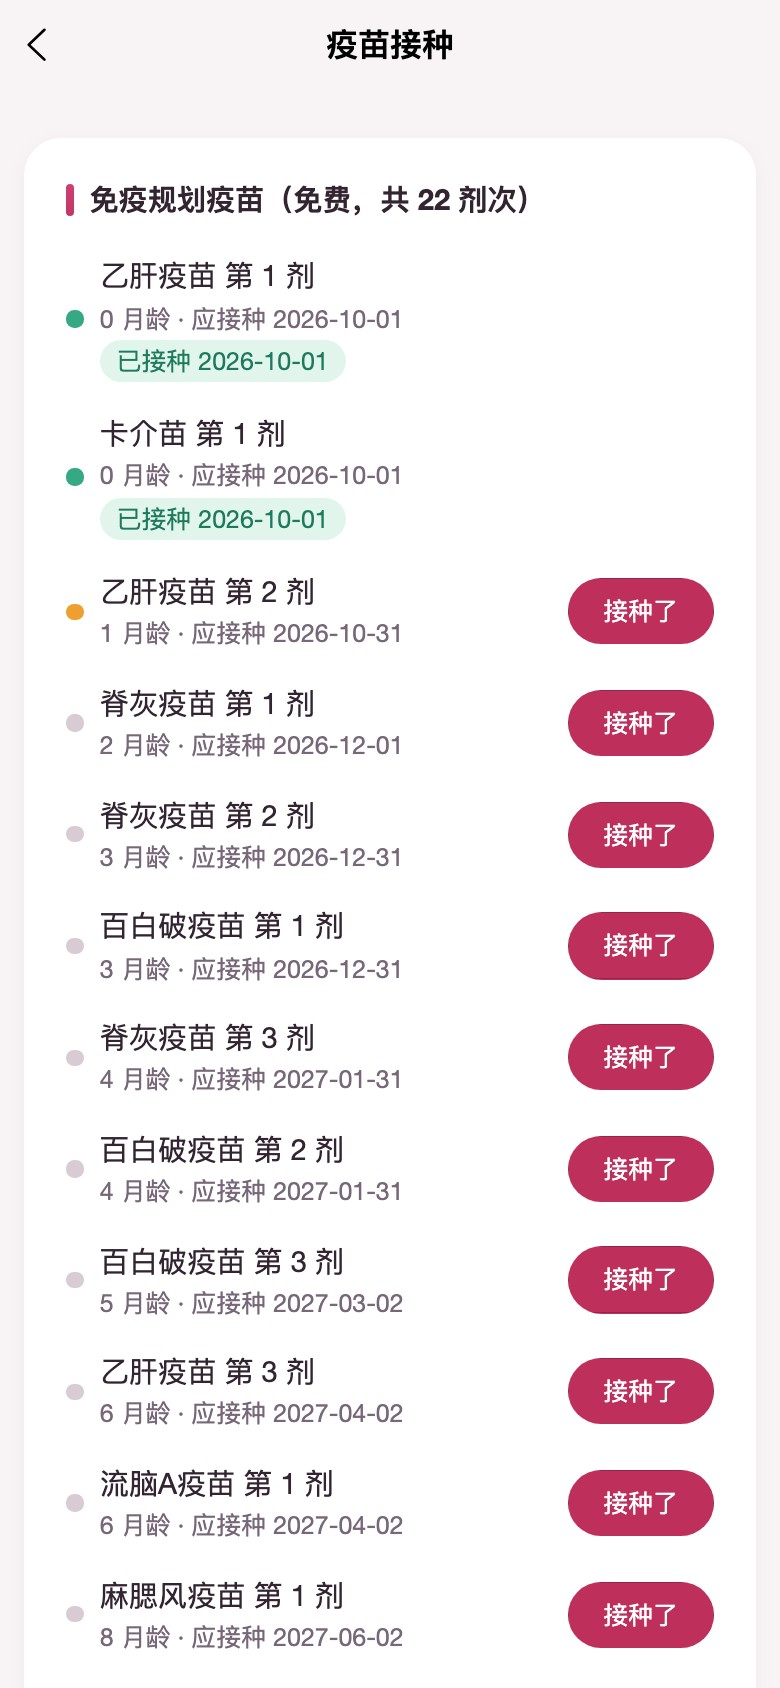
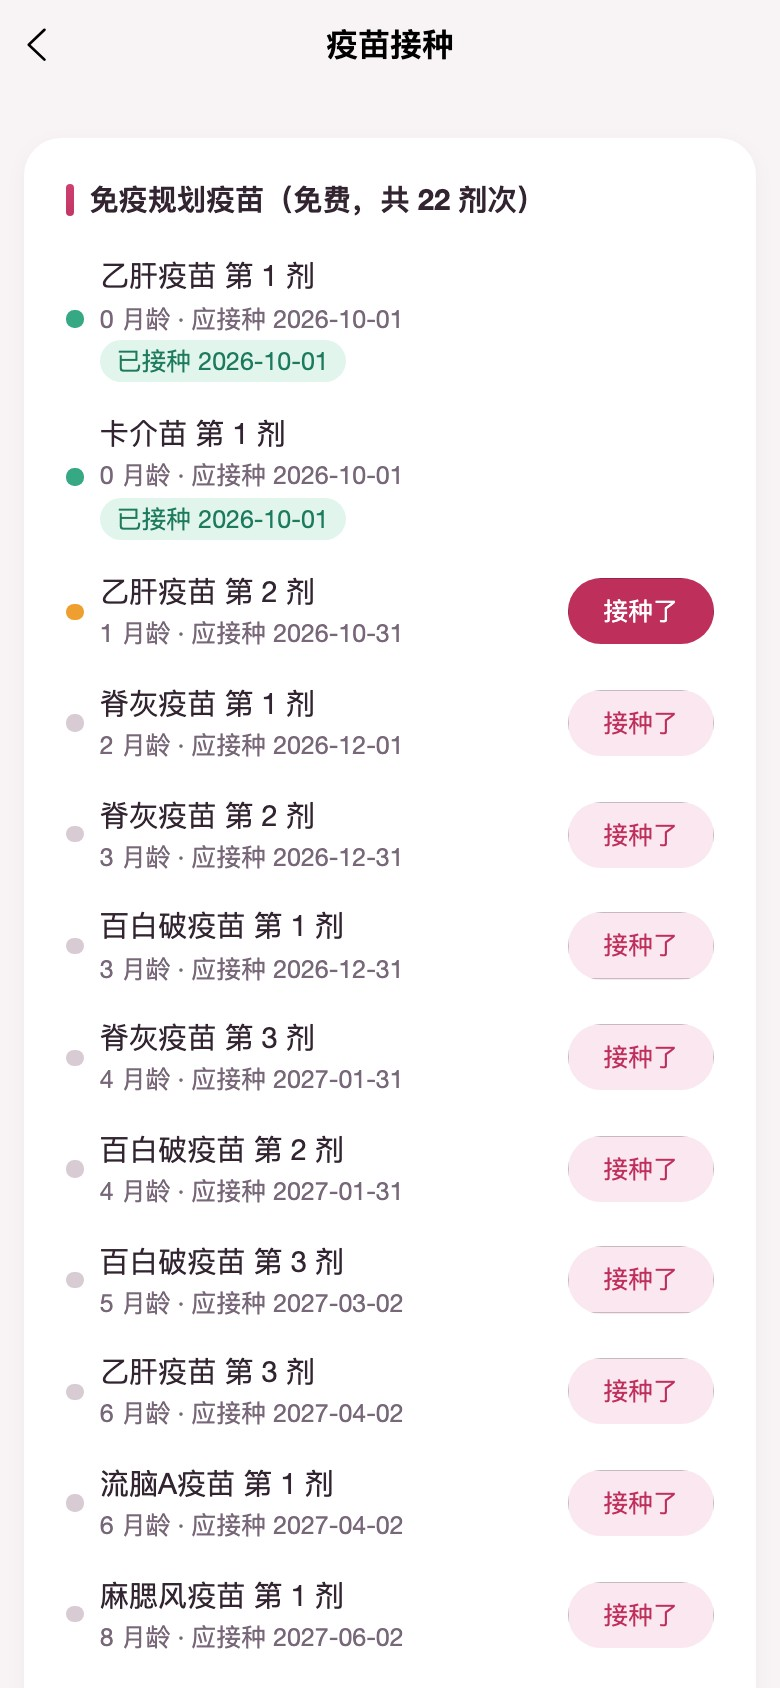
style(ui): 收敛疫苗按钮、记录单条目与计时器留白
- 疫苗页仅“该接种”使用主按钮，其余改为弱化胶囊，去掉成片粉色
- 记录页单条目分组改为横向行卡片，不再一张卡只放一个图标
- 亲喂/宫缩计时器空闲态垂直居中，减少大片空白
- 更新疫苗页 README 截图，补回归测试

Changed region(s): [[0.7077, 0.4005, 0.9231, 0.9858]]

diff --git a/test/unit/release.test.js b/test/unit/release.test.js
@@ -173,3 +173,10 @@ test('Web 图表高度使用 px，不依赖内联 rpx', () => {
   const growth = read('pages/baby/growth.uvue')
   assert.ok(growth.includes('kgBarPx') && !growth.includes("kgBar(s.kg) + 'rpx'"), '成长趋势柱高需转 px 后绑定')
 })
+
+test('列表页避免主按钮过载与单条目空卡', () => {
+  const vac = read('pages/baby/vaccines.uvue')
+  assert.ok(vac.includes('btn-record-due'), '疫苗页仅“该接种”使用主按钮，其余用弱按钮')
+  const rec = read('pages/record/record.uvue')
+  assert.ok(rec.includes('single-row'), '单条目分组应使用横向行卡片')
+})
